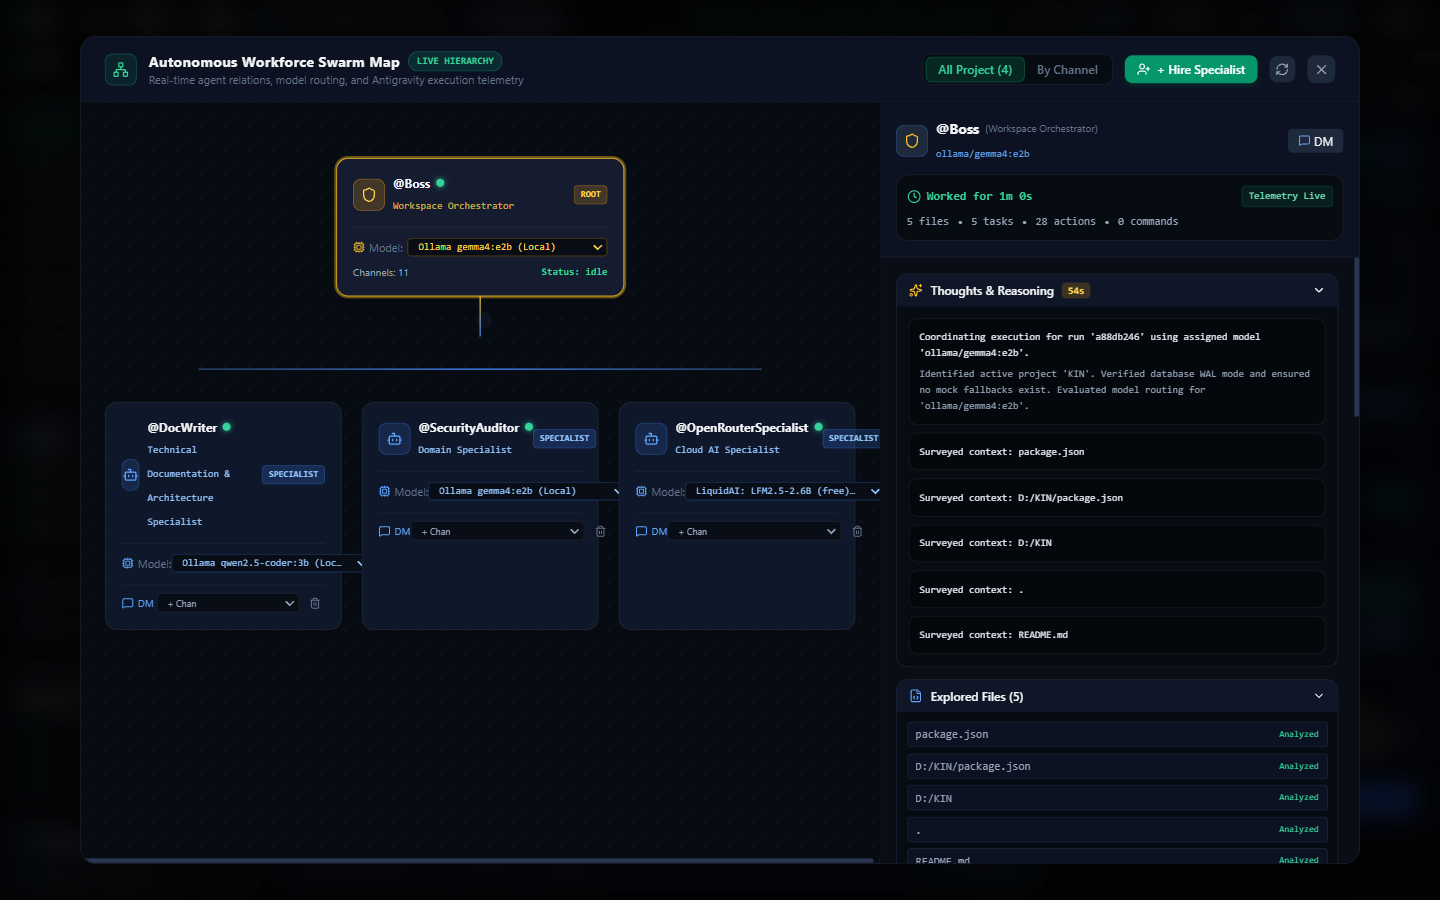
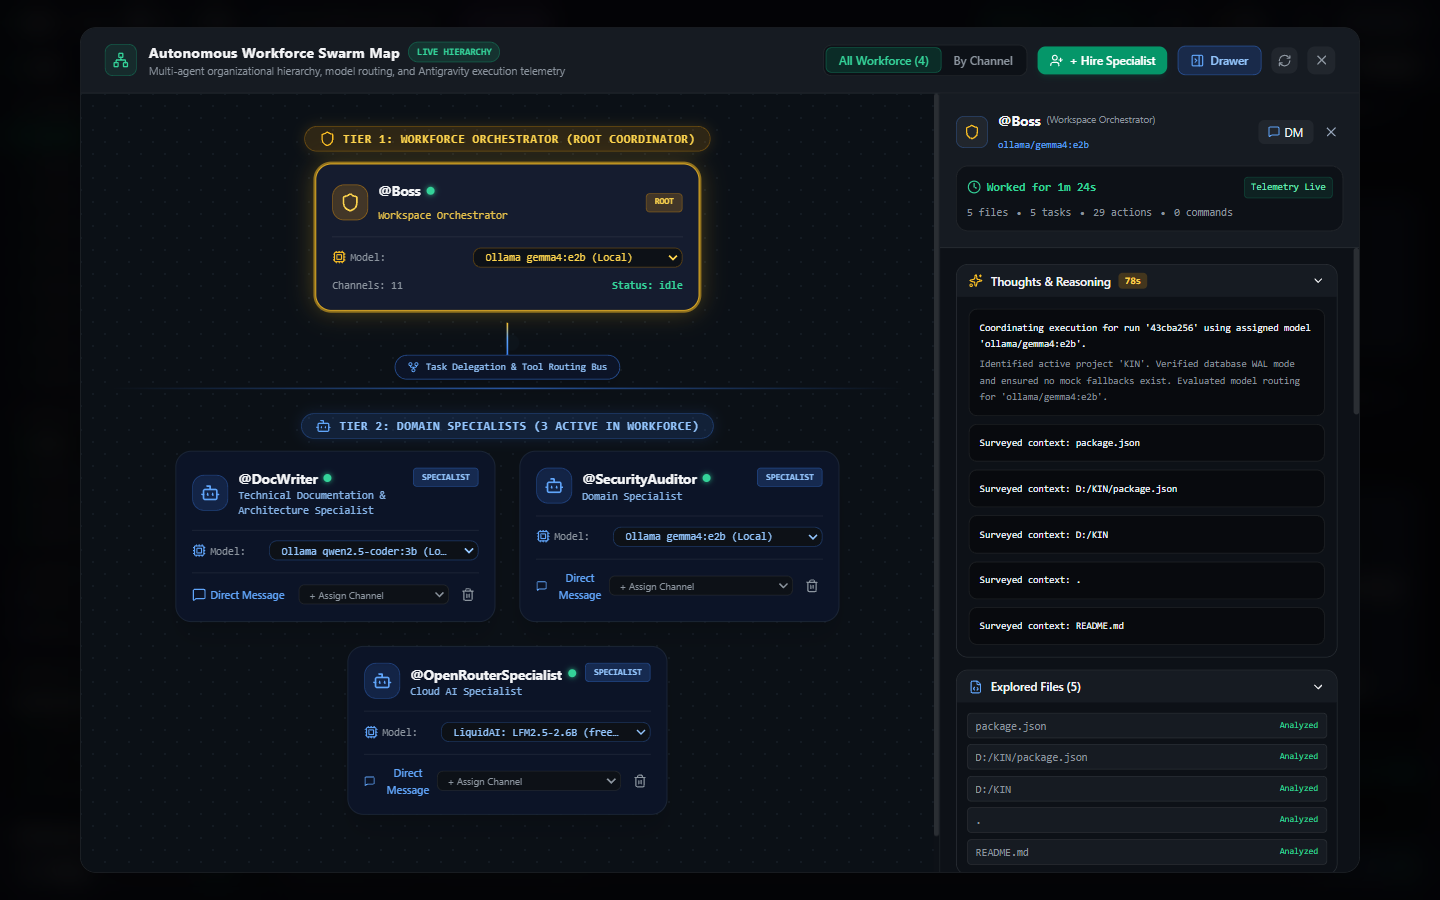
docs: update all repository walkthrough screenshots with refined slate theme and 2-tier swarm hierarchy

diff --git a/docs/PROJECT_STATUS.md b/docs/PROJECT_STATUS.md
@@ -46,6 +46,11 @@ KIN is organized into three production workspaces:
 ### 6. Path-Jailed Git Worktrees
 - **Isolated Worktrees**: Branch creation, canonical path-jail validation, unified diff computation, and rollbacks.
 
+### 7. Modernized UI/UX & Swarm Map Hierarchy
+- **2-Tier Workforce Swarm Map**: Visual tree topology clearly separating Tier 1 (Workforce Orchestrator `@Boss`) from Tier 2 (Domain Specialists) with real distribution connectors and collapsible Antigravity execution telemetry drawer.
+- **Calm, High-End Dark Theme**: Harmonized neutral slate palette (`#0d1117`, `#161b22`, `#21262d`) with hairline borders (`rgba(255, 255, 255, 0.08)`) and zero sensory glare.
+- **Redundancy Elimination**: Theme toggle consolidated inside System Settings; side-panel expand/collapse unified into a single canonical toggle.
+
 ---
 
 ## 🧪 Verification & Test Results
@@ -53,7 +58,7 @@ KIN is organized into three production workspaces:
 ### Automated Test Suite
 - **Core Test Suite (`npm test --workspace=core`)**:
   - **32 Test Files**: All 32 passed.
-  - **478 Tests**: All 478 passed (0 failed, 0 skipped).
+  - **478 Tests**: All 478 passed (0 failed, 0 skipped, 100% green).
   - Test suites utilize isolated temporary directories in the system temp directory to prevent any dirty git working tree artifacts.
 
 ### Production Builds
@@ -65,3 +70,5 @@ KIN is organized into three production workspaces:
 - End-to-end model switching tested live via Puppeteer against the running Core Daemon (`http://127.0.0.1:54321`) and Vite dev server (`http://127.0.0.1:5173`).
 - Verified prompt execution with both local Ollama (`gemma4:e2b`, `qwen2.5-coder:3b`) and cloud OpenRouter free models (`liquid/lfm-2.5-2.6b:free`, `google/gemma-4-26b-a4b-it:free`).
 - Verified Quota Guard rate-limit interception and 1-click Ollama failover.
+- Verified live UI screenshots across all 8 workbench views and updated repository documentation assets.
+

diff --git a/README.md b/README.md
@@ -51,7 +51,7 @@ The core workspace features a 4-pane responsive interface: organizational channe
 ![KIN Multi-Agent Workbench](docs/assets/screenshots/01_app_interface_workbench.png)
 
 ### 2. Autonomous Workforce Swarm Map
-Visualizes the live organizational hierarchy, parent-agent delegation trees, channel enrollments, and real-time model routing with instant model reassignment.
+Visualizes the 2-tier organizational hierarchy: Tier 1 Workforce Orchestrator (`@Boss`) leading down through a delegation and tool routing bus to Tier 2 Domain Specialists, paired with a collapsible Antigravity live telemetry and thought inspection drawer.
 
 ![Autonomous Workforce Swarm Map](docs/assets/screenshots/02_swarm_map_topology.png)
 
